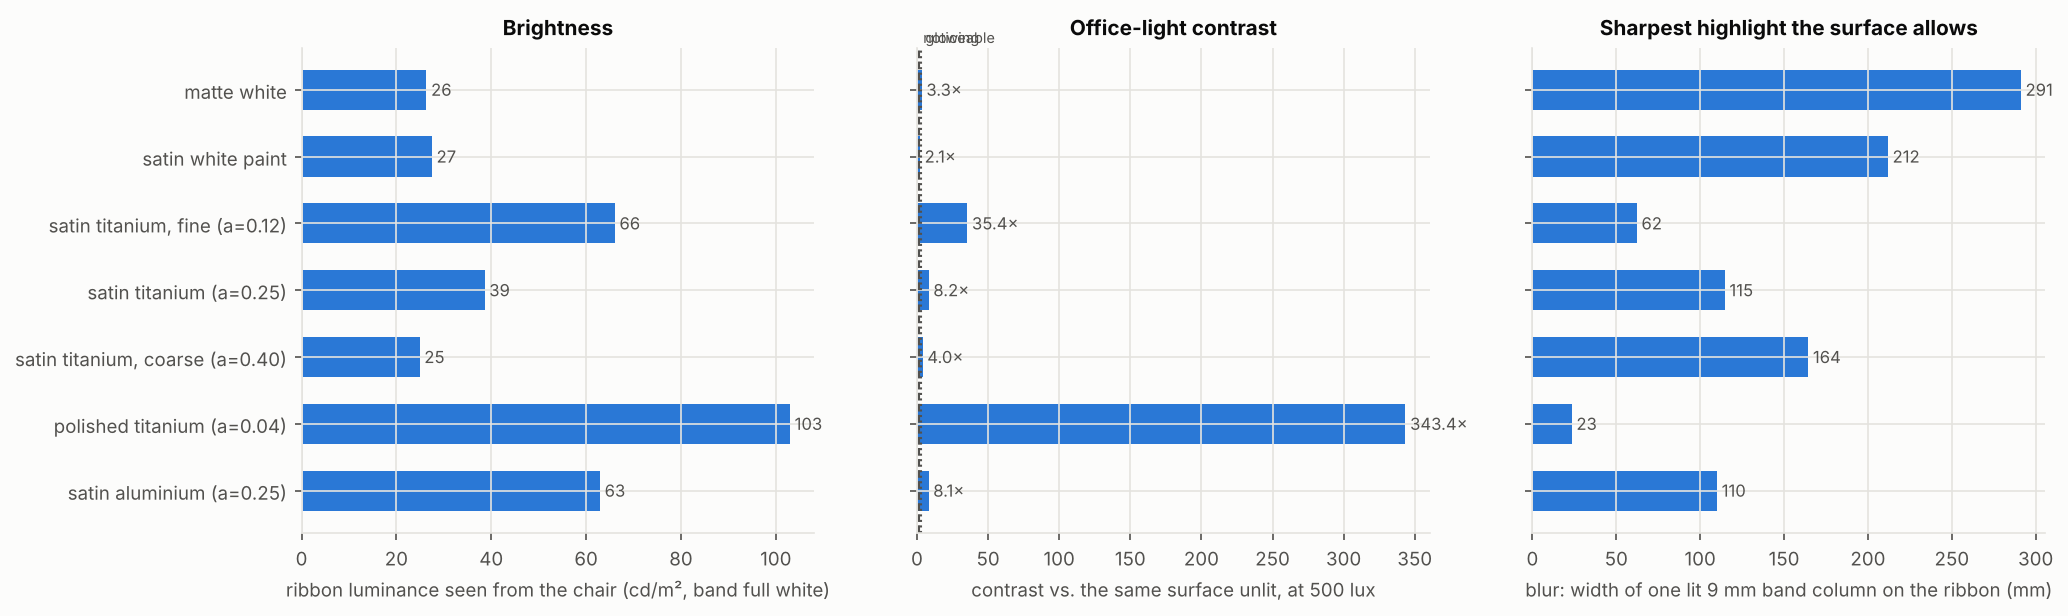
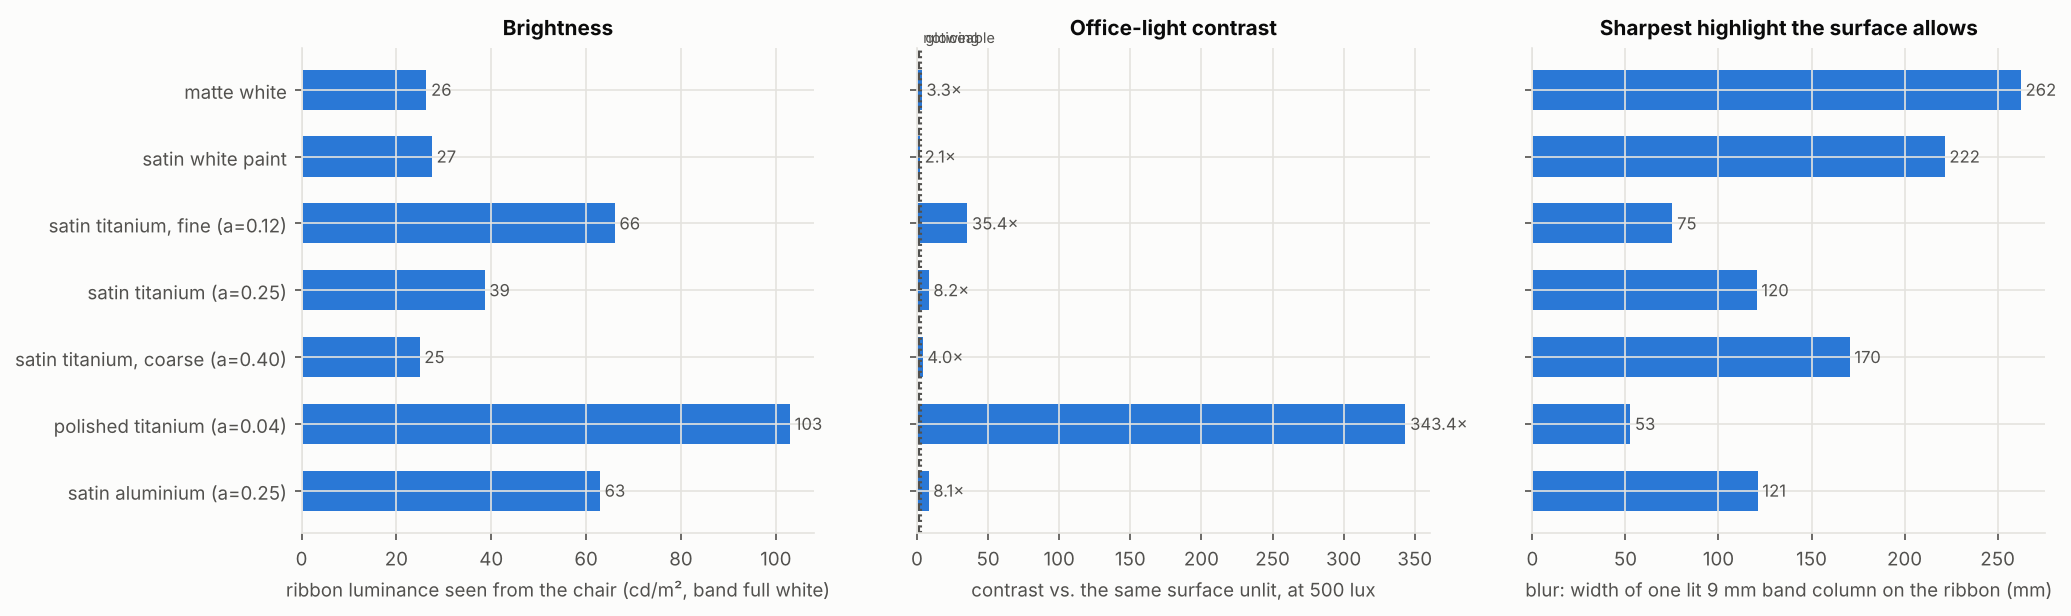
Night Array optics: final full-quality figures, corrected flat-field/seam findings, README pointer
Claude-Session: https://claude.ai/code/session_015TFqkUiMQGQxyTeJFzUDft

diff --git a/night-array/optics/README.md b/night-array/optics/README.md
@@ -25,7 +25,7 @@ python3 night-array/optics/run.py --quick     # same, low sample counts (~1.5 mi
 - reaches about **8× contrast** against the unlit surface in a 500-lux office, and about 25× in a lamp-lit room;
 - drops to about **1.7× (faint) in 5,000-lux daylight next to a window**.
 
-What the optics *can't* do is the concept image's tall, soft wave. The ribbon reads as a **thin line of light, about 30 mm tall and 1.2 m wide**. The x-direction blur is about 115 mm, so "delicate highlights" become soft spots about 10 cm wide.
+What the optics *can't* do is the concept image's tall, soft wave. The ribbon reads as a **thin line of light, about 30 mm tall and 1.2 m wide**. The x-direction blur is about 120 mm, so "delicate highlights" become soft spots about 10 cm wide.
 
 ## Recommended geometry (design C)
 
@@ -72,13 +72,13 @@ The ribbon's apparent height is set by **the slot between the reflector's lower 
 
 | Finish | Mean luminance | Contrast at 500 lux | Blur (width of one lit 9 mm column) |
 |---|---|---|---|
-| Matte white floor | 26 cd/m² | 3.3× | 290 mm |
-| Satin white paint | 27 cd/m² | 2.1× | 210 mm |
-| Satin titanium, fine (α 0.12) | 66 cd/m² | 35× | 60 mm |
-| **Satin titanium (α 0.25)** | **39 cd/m²** | **8.2×** | **115 mm** |
-| Satin titanium, coarse (α 0.40) | 25 cd/m² | 4.0× | 165 mm |
-| Polished titanium (α 0.04) | 103 cd/m² | 340× | 25 mm |
-| Satin aluminium (α 0.25) | 63 cd/m² | 8.1× | 110 mm |
+| Matte white floor | 26 cd/m² | 3.3× | 260 mm |
+| Satin white paint | 27 cd/m² | 2.1× | 220 mm |
+| Satin titanium, fine (α 0.12) | 66 cd/m² | 35× | 75 mm |
+| **Satin titanium (α 0.25)** | **39 cd/m²** | **8.2×** | **120 mm** |
+| Satin titanium, coarse (α 0.40) | 25 cd/m² | 4.0× | 170 mm |
+| Polished titanium (α 0.04) | 103 cd/m² | 340× | 55 mm |
+| Satin aluminium (α 0.25) | 63 cd/m² | 8.1× | about 120 mm |
 
 A **metallic satin** beats any white surface on every measure. A white diffuser scatters light everywhere, so it is lit by the whole room and its ribbon is only a little brighter than its own ambient glow. A metallic satin surface, seen from the chair, reflects what is above it: the dark display underside and the reflector. It is dark when the band is off and bright when it is on. Main-screen content barely reaches the ribbon (spill is below 0.01 cd/m² per 100 cd/m² of content), because the reflector shades the cove from the screen too.
 
@@ -119,14 +119,14 @@ The ribbon works at night and in normal offices with plenty of headroom. At nigh
 
 ![Pattern transfer](out/6-pattern-transfer.png)
 
-- **Left–right (x) is controllable, but blurred.** A single lit column spreads to about 115 mm on the ribbon, mostly from the satin's roughness acting over the 100–150 mm throw. As a result:
+- **Left–right (x) is controllable, but blurred.** A single lit 9 mm column spreads to about 120 mm on the ribbon, mostly from the satin's roughness acting over the 100–150 mm throw. As a result:
   - broad bass "swells" (wider than about 150 mm) come through at most of their drawn brightness;
   - a 40 mm treble "highlight" reaches only about 30 % of full-white brightness, and a 20 mm one about 16 %;
   - highlights stay where they are drawn, but they get softer and dimmer.
   - Stereo panning (moving a broad blob left and right) works well.
 - **Up–down cannot be steered.** All four row groups of the band land at the same height on the ribbon. The parabola collimates the band, so moving the pattern up or down the band changes the beam *angle*, not the spot's position. That only changes brightness slightly. Use the band's rows for brightness, not motion.
-- **Pattern and optics have to be designed together.** `ribbon/analysis.py:design_pattern` solves for band drive levels that produce a target ribbon. It uses a constrained least-squares fit through the traced transfer matrix, which maps each band bin to each pixel the eye sees. The example evens out the ribbon: the ends are dimmer than the middle because of the end caps, so the solver drives the centre down to match them.
-- **The seam.** The 14 mm pixel gap at x = 0 is much narrower than the ~115 mm blur, so it shows only as a shallow dip. The flat-field solve compensates for it.
+- **Pattern and optics have to be designed together.** `ribbon/analysis.py:design_pattern` solves for band drive levels that produce a target ribbon. It uses a constrained least-squares fit through the traced transfer matrix, which maps each band bin to each pixel the eye sees. The example asks for a uniform ribbon. Run at full white, the ribbon is about 30 % dimmer over its last 100–150 mm at each end, where the end caps cut off light from beyond the edge. The solver flattens the middle by lowering it to about 75 % of full drive. The ends can't be raised further (they are already at 100 %), so a fully even ribbon needs the cove to run about 100 mm past the end of the band, or mirror-finished end caps.
+- **The seam.** The 14 mm pixel gap at x = 0 is much narrower than the ~120 mm blur, and it produces no visible dip in the traced ribbon.
 - **Docking sweep / rest.** A sweep is a broad blob moving across x: well within reach. Off is black pixels: the cove then shows only reflected ambient light.
 
 ## Viewing position

diff --git a/night-array/README.md b/night-array/README.md
@@ -52,6 +52,10 @@ All numbers are concept-level. The masses come from the CAD volumes and real mat
 - **[Kit overview](kit/README.md):** how the structure, power, video, wireless charging and light fit together, a before-you-buy checklist, and the status.
 - The printable shells, steel cut files, laptop-insert generator, wiring diagram and assembly guide are on hold for now.
 
+## Light ribbon optics
+
+[`optics/`](optics/) is a ray-traced check of the "light ribbon" idea: a band of screen pixels lighting a satin channel under the display through a hidden reflector, with no LEDs. It compares reflector geometries, surface finishes, band sizes and daylight levels, and solves for the band patterns software would draw. The result: it works with an off-axis parabolic reflector and a satin-metal ramp. A 12 mm band gives a ribbon of about 40 cd/m², at about 8× contrast in a 500-lux office. It fades in direct daylight, and it shows as a thin line with ~12 cm blur rather than the concept's tall wave. See [`optics/README.md`](optics/README.md).
+
 ## CAD files
 
 Everything is generated from one parametric CadQuery model and kept in [`cad/export/`](cad/export/):
@@ -83,6 +87,7 @@ night-array/
   cad/               parametric CAD (Python + CadQuery) → cad/export/ (committed deliverables, also packaged into the app)
   viewer/            live renderer (three.js 0.170, esbuild) → android/app/src/main/assets/viewer/ + renders/
   android/           Kotlin + Jetpack Compose app
+  optics/            light-ribbon ray tracer and results (numpy + matplotlib)
   kit/               build-it-yourself kit: shopping list (parts.json → BOM.md), design rules, sourcing research
   docs/              README images
 ```
